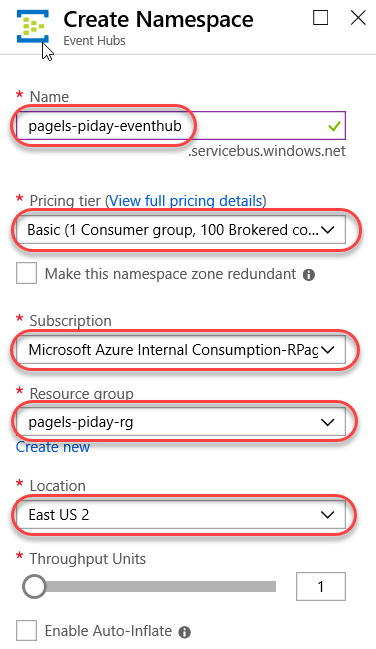
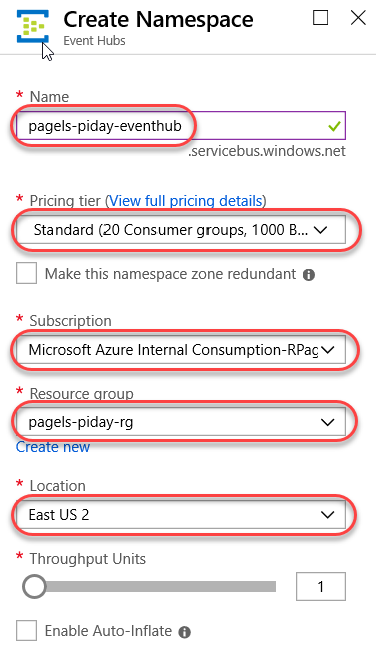
Updates

Changed region(s): [[0.0585, 0.339, 0.8777, 0.3698]]

diff --git a/Lab 2 - Working with Hubway Data/Lab 2.0 - Resource Configuration/README.md b/Lab 2 - Working with Hubway Data/Lab 2.0 - Resource Configuration/README.md
@@ -32,7 +32,7 @@ Use the following steps to create an Event Hubs Namespace:
     - **Name**, type in the name for your Event Hub Namespace. This name must be globally unique.
         - Type **<*lastname*>-piday-eventhub**.
 
-    - **Pricing Tier**, choose the pricing tier **Basic**.
+    - **Pricing Tier**, choose the pricing tier **Standard**.
 
     - **Subscription**, select the subscription to use for your Event Hub.
 
